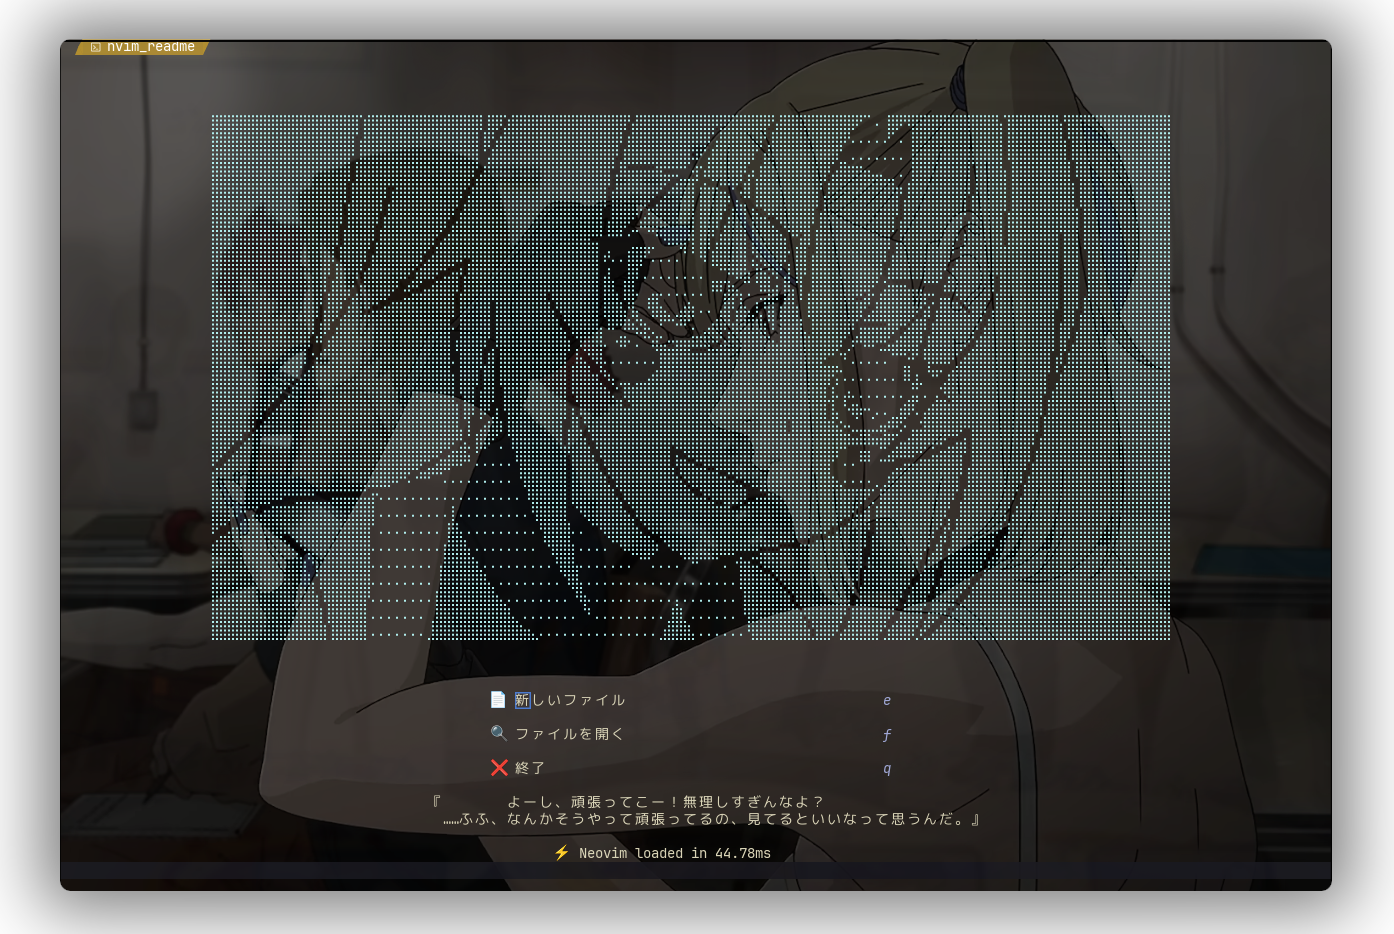
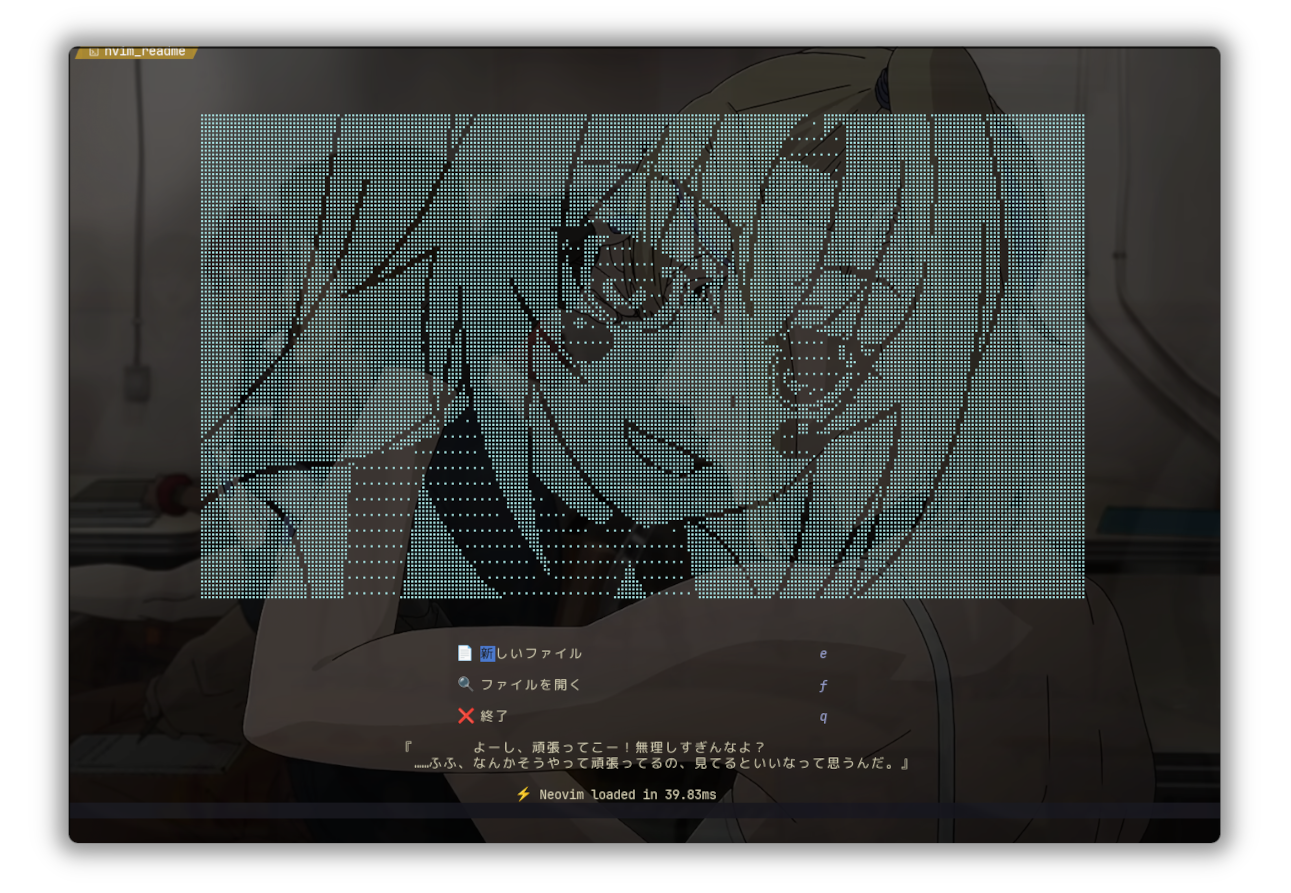
docs(README,assets): 画像が最新のものでないことへの注意書きの更新と、ファイラーをneo-treeへ移行したことによる変更。
また、起動速度がさらに向上したので、dashboardを撮り直し
(`nvim-dashboard*.png) 。

diff --git a/README.md b/README.md
@@ -22,6 +22,9 @@
 > [!NOTE]
 > [dotfiles](https://github.com/Samemaru07/dotfiles)のサブモジュールとして管理されています。
 
+> [!NOTE]
+> 掲載している画像は、実際の表示と若干異なる場合があります。
+
 ![dashboard](assets/nvim-dashboard.png)
 
 ![demo-lsp](assets/nvim-lsp.gif)
@@ -303,7 +306,7 @@ WSLの手順 3.公開鍵認証 (GitHub) の設定 ~ と同様に。
 | プラグイン名                                                        | 説明                     |
 | ------------------------------------------------------------------- | ------------------------ |
 | [nvim-web-devicons](https://github.com/nvim-tree/nvim-web-devicons) | アイコン表示             |
-| [nvim-tree.lua](https://github.com/nvim-tree/nvim-tree.lua)         | ファイルエクスプローラ   |
+| [neo-tree.nvim](https://github.com/nvim-neo-tree/neo-tree.nvim)     | ファイルエクスプローラ   |
 | [bufferline.nvim](https://github.com/akinsho/bufferline.nvim)       | バッファライン表示       |
 | [lualine.nvim](https://github.com/nvim-lualine/lualine.nvim)        | ステータスライン         |
 | [toggleterm.nvim](https://github.com/akinsho/toggleterm.nvim)       | ターミナルトグル         |
@@ -744,7 +747,7 @@ Neovimを起動するたびに、「ひぐらしのなく頃に」より、**園
                         return ""
                     end
                     local ft = vim.bo.filetype
-                    if ft == "NvimTree" then
+                    if ft == "neo-tree" then
                         return ""
                     end
                     if ft == "alpha" then

diff --git a/README.en.md b/README.en.md
@@ -22,6 +22,9 @@
 > [!NOTE]
 > Managed as a submodule of [dotfiles](https://github.com/Samemaru07/dotfiles).
 
+> [!NOTE]
+> Screenshots may slightly differ from the current appearance.
+
 ![dashboard](assets/nvim-dashboard.png)
 
 ![demo-lsp](assets/nvim-lsp.gif)
@@ -301,7 +304,7 @@ Follow the same steps as WSL, starting from step 3: Set up SSH key authenticatio
 | Plugin                                                              | Description                   |
 | ------------------------------------------------------------------- | ----------------------------- |
 | [nvim-web-devicons](https://github.com/nvim-tree/nvim-web-devicons) | File icons                    |
-| [nvim-tree.lua](https://github.com/nvim-tree/nvim-tree.lua)         | File explorer                 |
+| [neo-tree.nvim](https://github.com/nvim-neo-tree/neo-tree.nvim)     | File explorer                 |
 | [bufferline.nvim](https://github.com/akinsho/bufferline.nvim)       | Buffer tab line               |
 | [lualine.nvim](https://github.com/nvim-lualine/lualine.nvim)        | Status line                   |
 | [toggleterm.nvim](https://github.com/akinsho/toggleterm.nvim)       | Terminal toggle               |
@@ -735,7 +738,7 @@ A Gundam-inspired message is displayed in the status line based on the file's sa
                         return ""
                     end
                     local ft = vim.bo.filetype
-                    if ft == "NvimTree" then
+                    if ft == "neo-tree" then
                         return ""
                     end
                     if ft == "alpha" then
